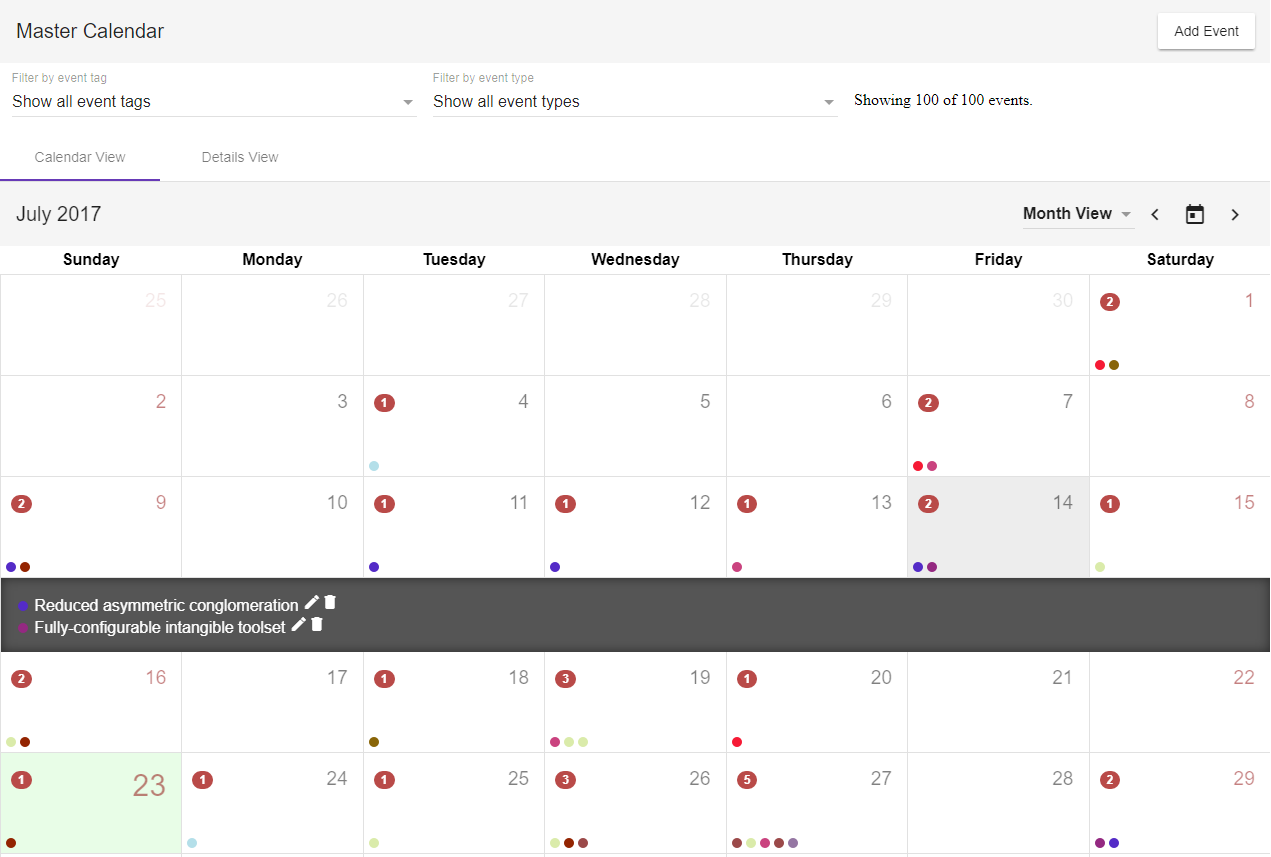
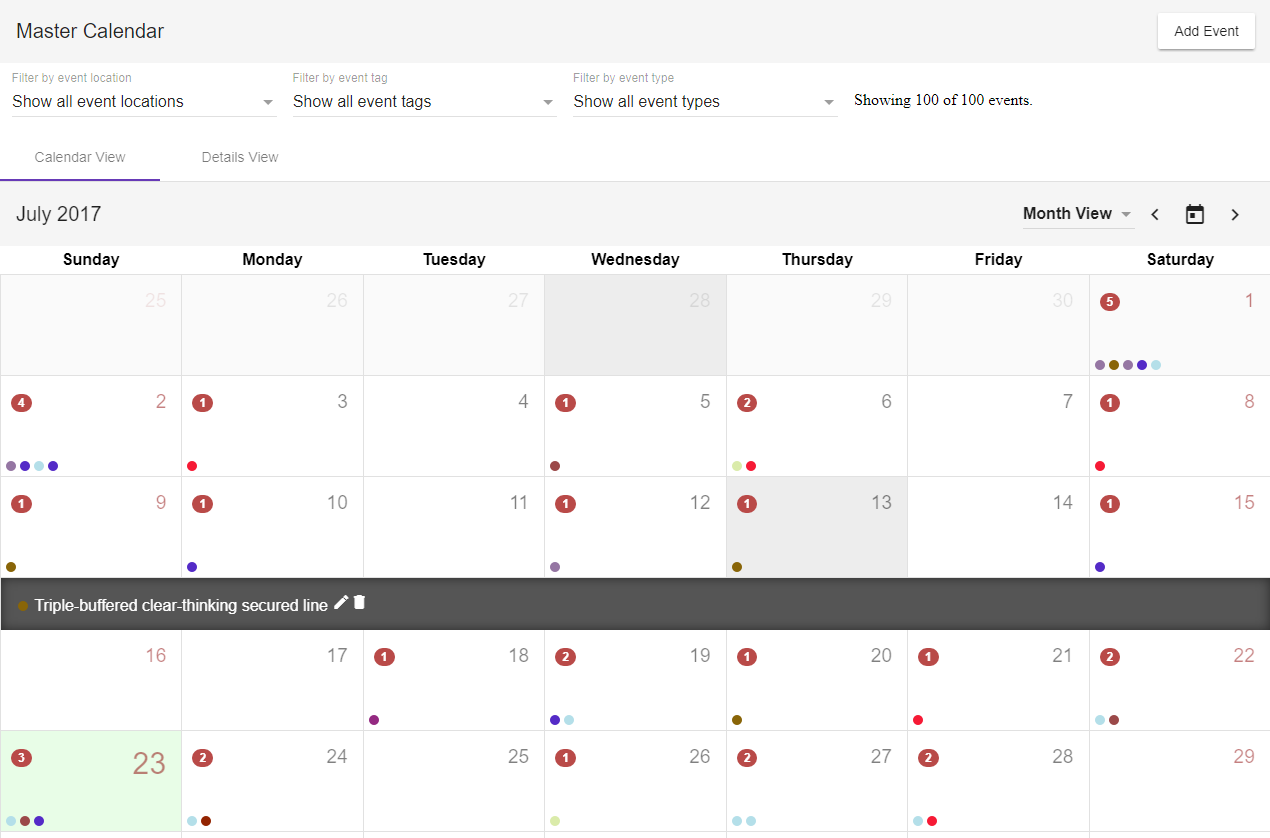
feat: add location filter, autocomplete

diff --git a/src/app/dialogs/edit-event-dialog/edit-event-dialog.component.ts b/src/app/dialogs/edit-event-dialog/edit-event-dialog.component.ts
@@ -5,14 +5,14 @@ import * as addHours from 'date-fns/add_hours';
 import { Observable } from 'rxjs/Observable';
 
 import { BaseComponent } from './../../base.component';
-import { EventMetadataService, EventType } from './../../shared/services/event-metadata.service';
+import { EventLocation, EventMetadataService, EventType } from './../../shared/services/event-metadata.service';
 import { EventsService, EventDetail } from './../../shared/services/events.service';
 
 const controls = {
   title: 'title',
   start: 'start',
   end: 'end',
-  location: 'location',
+  eventLocationAddress: 'eventLocationAddress',
   eventTypeName: 'eventTypeName',
   imageUrl: 'imageUrl',
   description: 'description'
@@ -29,6 +29,7 @@ export class EditEventDialogComponent extends BaseComponent {
   readonly form: FormGroup;
   readonly controls = controls;
   readonly eventTypes: Observable<EventType[]>;
+  readonly eventLocations: Observable<EventLocation[]>;
 
   constructor (
     private formBuilder: FormBuilder,
@@ -39,6 +40,7 @@ export class EditEventDialogComponent extends BaseComponent {
     super();
 
     this.eventTypes = this.eventMetadataService.getEventTypesAsArray().shareReplay();
+    this.eventLocations = this.eventMetadataService.getEventLocationsAsArray().shareReplay();
 
     const now = new Date();
     const start = new Date(now.getFullYear(), now.getMonth(), now.getDate(), now.getHours());
@@ -48,7 +50,7 @@ export class EditEventDialogComponent extends BaseComponent {
       [controls.title]: ['', [Validators.required]],
       [controls.start]: [null, [Validators.required]],
       [controls.end]: [null, [Validators.required]],
-      [controls.location]: ['', [Validators.required]],
+      [controls.eventLocationAddress]: ['', [Validators.required]],
       [controls.eventTypeName]: [null, [Validators.required]],
       [controls.imageUrl]: [null],
       [controls.description]: ['', [Validators.required]]
@@ -75,17 +77,18 @@ export class EditEventDialogComponent extends BaseComponent {
   }
 
   submit() {
+    const locationAddress = this.form.controls[controls.eventLocationAddress].value as string;
     const eventTypeName = this.form.controls[controls.eventTypeName].value as string;
 
-    Observable.forkJoin(this.eventTypes.first())
-      .map(([eventTypes]) => ({
+    Observable.forkJoin(this.eventTypes.first(), this.eventLocations.first())
+      .map(([eventTypes, locations]) => ({
         ...(this.originalEvent || { }),
         title: this.form.controls[controls.title].value as string,
         start: this.form.controls[controls.start].value as Date,
         end: this.form.controls[controls.end].value as Date,
-        location: this.form.controls[controls.location].value as string,
         description: this.form.controls[controls.description].value as string,
         imageUrl: this.form.controls[controls.imageUrl].value as string,
+        location: locations.find(location => location.address === locationAddress),
         type: eventTypes.find(eventType => eventType.name === eventTypeName)
       } as EventDetail))
       .switchMap(event => (this.originalEvent ? this.eventsService.updateEvent(event) : this.eventsService.addEvent(event)).mapTo(event))
@@ -102,7 +105,7 @@ export class EditEventDialogComponent extends BaseComponent {
     this.form.controls[controls.title].setValue(event.title);
     this.form.controls[controls.start].setValue(event.start);
     this.form.controls[controls.end].setValue(event.end);
-    this.form.controls[controls.location].setValue(event.location);
+    this.form.controls[controls.eventLocationAddress].setValue(event.location.address);
     this.form.controls[controls.eventTypeName].setValue(event.type.name);
     this.form.controls[controls.imageUrl].setValue(event.imageUrl);
     this.form.controls[controls.description].setValue(event.description);

diff --git a/src/app/shared/services/events.service.ts b/src/app/shared/services/events.service.ts
@@ -5,7 +5,7 @@ import { Observable } from 'rxjs/Observable';
 import { defaultSnackBarOptions, warnSnackBarOptions } from './../constants';
 import { Calendar, CalendarMetadata } from './../database';
 import { mapToArray } from './../helpers/object.helpers';
-import { EventMetadataService, EventTag, EventType } from './event-metadata.service';
+import { EventLocation, EventMetadataService, EventTag, EventType } from './event-metadata.service';
 import { StoredEventDetail } from './events.service';
 import { FirebaseService } from './firebase.service';
 
@@ -14,9 +14,9 @@ export interface EventDetail {
   title: string;
   start: Date;
   end: Date;
-  location: string;
   imageUrl: string;
   description: string;
+  location: EventLocation;
   tags?: EventTag[];
   type?: EventType;
 }
@@ -26,9 +26,9 @@ export interface StoredEventDetail {
   title: string;
   start: string;
   end: string;
-  location: string;
   imageUrl: string;
   description: string;
+  locationKey: string;
   typeKey: string;
   tagKeys: string[];
 }
@@ -83,9 +83,9 @@ export class EventsService {
       title: event.title || null,
       start: event.start ? event.start.toISOString() : null,
       end: event.end ? event.end.toISOString() : null,
-      location: event.location || null,
       imageUrl: event.imageUrl || null,
       description: event.description || null,
+      locationKey: event.location ? event.location.$key || null : null,
       typeKey: event.type ? event.type.$key || null : null,
       tagKeys: event.tags ? event.tags.map(tag => tag.$key || null) : null
     } as StoredEventDetail;
@@ -97,9 +97,9 @@ export class EventsService {
       title: event.title,
       start: new Date(event.start),
       end: new Date(event.end),
-      location: event.location,
       imageUrl: event.imageUrl,
       description: event.description,
+      location: { $key: event.locationKey, ...metadata.eventLocations[event.locationKey] },
       type: { $key: event.typeKey, ...metadata.eventTypes[event.typeKey] },
       tags: (event.tagKeys || []).map(tagKey => ({ $key: tagKey, ...metadata.eventTags[tagKey] }))
     } as EventDetail;

diff --git a/seed/generate-database.ts b/seed/generate-database.ts
@@ -3,7 +3,7 @@ import { readFileSync, writeFileSync } from 'fs';
 
 import { Database } from '../src/app/shared/database';
 import { firebaseConfig } from './../src/app/shared/firebase-config';
-import { EventTag, EventType } from './../src/app/shared/services/event-metadata.service';
+import { EventLocation, EventTag, EventType } from './../src/app/shared/services/event-metadata.service';
 import { StoredEventDetail } from './../src/app/shared/services/events.service';
 
 interface MockData {
@@ -37,6 +37,13 @@ const shortDescriptions = descriptions
   .filter(description => description.length > 0)
   .map(description => `${description}.`);
 
+const eventLocations = data
+  .slice(0, 25)
+  .map(mock => makeEventLocation(mock.location))
+  .reduce((map, value) => { map[ref.push().key] = value; return map; }, {});
+
+const eventLocationKeys = Object.keys(eventLocations);
+
 const eventTags = data
   .slice(0, 25)
   .map(mock => makeEventTag(mock.buzzword, mock.color))
@@ -58,6 +65,7 @@ const events = data
 const database: Database = {
   calendar: {
     events, metadata: {
+      eventLocations,
       eventTags,
       eventTypes
     }
@@ -68,6 +76,12 @@ writeFileSync('./seed/database.json', JSON.stringify(database, undefined, 4));
 
 ref.set(database)
   .then(() => { app.database().goOffline(); });
+
+function makeEventLocation(location: string) {
+  return {
+    address: location
+  } as EventLocation;
+}
 
 function makeEventType(type: string, color: string) {
   return {
@@ -87,10 +101,10 @@ function makeEventTag(buzzword: string, color: string) {
 function makeEvent(catchphrase: string, location: string) {
   return {
     title: catchphrase,
-    location,
     ...randomDates(),
     tagKeys: randomTagKeys(),
     imageUrl: null,
+    locationKey: eventLocationKeys[Math.floor(Math.random() * eventLocationKeys.length)],
     typeKey: eventTypeKeys[Math.floor(Math.random() * eventTypeKeys.length)],
     description: descriptions[Math.floor(Math.random() * descriptions.length)]
   } as StoredEventDetail;

diff --git a/src/app/shared/components/event-filter/event-filter.component.html b/src/app/shared/components/event-filter/event-filter.component.html
@@ -1,11 +1,17 @@
 <div bp-layout="row">
-  <div bp-layout="col 6@md" class="padding-top-24">
+  <div bp-layout="col 4@md" class="padding-top-24">
+    <md-select class="full-width" placeholder="Filter by event location" [ngModel]="filter.location" (ngModelChange)="updateLocationFilter($event)">
+      <md-option value="">Show all event locations</md-option>
+      <md-option *ngFor="let location of locations | async" [value]="location">{{ location }}</md-option>
+    </md-select>
+  </div>
+  <div bp-layout="col 4@md" class="padding-top-24">
     <md-select class="full-width" placeholder="Filter by event tag" [ngModel]="filter.tag" (ngModelChange)="updateTagFilter($event)">
       <md-option value="">Show all event tags</md-option>
       <md-option *ngFor="let tag of tags | async" [value]="tag">{{ tag }}</md-option>
     </md-select>
   </div>
-  <div bp-layout="col 6@md" class="padding-top-24">
+  <div bp-layout="col 4@md" class="padding-top-24">
     <md-select class="full-width" placeholder="Filter by event type" [ngModel]="filter.type" (ngModelChange)="updateTypeFilter($event)">
       <md-option value="">Show all event types</md-option>
       <md-option *ngFor="let type of types | async" [value]="type">{{ type }}</md-option>

diff --git a/src/app/dialogs/edit-event-dialog/edit-event-dialog.component.html b/src/app/dialogs/edit-event-dialog/edit-event-dialog.component.html
@@ -22,11 +22,16 @@
       <div bp-layout="row">
         <div bp-layout="col 6@md" class="no-padding-bottom">
           <md-input-container class="full-width">
-            <input mdInput placeholder="Location" [formControlName]="controls.location">
-            <md-error *ngIf="form.controls[controls.location].hasError('required')">
+            <input mdInput placeholder="Location" [formControlName]="controls.eventLocationAddress" [mdAutocomplete]="eventLocationAutocomplete">
+            <md-error *ngIf="form.controls[controls.eventLocationAddress].hasError('required')">
               The event location is <strong>required</strong>.
             </md-error>
           </md-input-container>
+          <md-autocomplete #eventLocationAutocomplete="mdAutocomplete">
+            <md-option *ngFor="let eventLocation of eventLocations | async" [value]="eventLocation.address">
+              <span>{{ eventLocation.address }}</span>
+            </md-option>
+          </md-autocomplete>
         </div>
         <div bp-layout="col 6@md" class="no-padding-bottom">
           <md-input-container class="full-width">

diff --git a/src/app/shared/components/event-filter/event-filter.component.ts b/src/app/shared/components/event-filter/event-filter.component.ts
@@ -14,14 +14,20 @@ export class EventFilterComponent extends BaseComponent {
   @Input() filter = showAllEventFilter;
   @Output() filterChange = new EventEmitter<EventFilter>();
 
+  readonly locations: Observable<string[]>;
   readonly tags: Observable<string[]>;
   readonly types: Observable<string[]>;
 
   constructor(private eventMetadataService: EventMetadataService) {
     super();
 
+    this.locations = this.getLocations().shareReplay(1);
     this.tags = this.getTags().shareReplay(1);
     this.types = this.getTypes().shareReplay(1);
+  }
+
+  updateLocationFilter(value: string) {
+    this.filterChange.next({ ...this.filter, location: value });
   }
 
   updateTagFilter(value: string) {
@@ -30,6 +36,11 @@ export class EventFilterComponent extends BaseComponent {
 
   updateTypeFilter(value: string) {
     this.filterChange.next({ ...this.filter, type: value });
+  }
+
+  private getLocations() {
+    return this.eventMetadataService.getEventLocationsAsArray()
+      .map(locations => locations.map(location => location.address));
   }
 
   private getTags() {

diff --git a/src/app/shared/services/event-metadata.service.ts b/src/app/shared/services/event-metadata.service.ts
@@ -4,6 +4,11 @@ import { CalendarMetadata } from './../database';
 import { mapToArray, SimpleMap } from './../helpers/object.helpers';
 import { FirebaseService } from './firebase.service';
 
+export interface EventLocation {
+  $key: string;
+  address: string;
+}
+
 export interface EventTag {
   $key: string;
   name: string;
@@ -20,6 +25,19 @@ export interface EventType {
 @Injectable()
 export class EventMetadataService {
   constructor(private firebase: FirebaseService) { }
+
+  getEventLocations() {
+    return this.firebase.object<SimpleMap<EventLocation>>('calendar/metadata/eventLocations');
+  }
+
+  getEventLocationsAsArray() {
+    return this.getEventLocations()
+      .map(eventTypes => mapToArray(eventTypes));
+  }
+
+  getEventLocation(key: string) {
+    return this.firebase.object<EventLocation>(`calendar/metadata/eventLocations/${key}`);
+  }
 
   getMetadata() {
     return this.firebase.object<CalendarMetadata>('calendar/metadata');

diff --git a/src/app/shared/helpers/event-filter.helpers.ts b/src/app/shared/helpers/event-filter.helpers.ts
@@ -1,18 +1,20 @@
 import { EventDetail } from './../services/events.service';
 
 export interface EventFilter {
+  location: string;
   tag: string;
   type: string;
 }
 
-export const showAllEventFilter: EventFilter = { tag: '', type: '' };
+export const showAllEventFilter: EventFilter = { location: '', tag: '', type: '' };
 
 export function filterEvents(events: EventDetail[], filter: EventFilter) {
   return events
     .filter(event => {
+      const locationHit = filter.location === '' || event.location.address === filter.location;
       const tagHit = filter.tag === '' || event.tags.map(tag => tag.name).includes(filter.tag);
       const typeHit = filter.type === '' || event.type.name === filter.type;
 
-      return tagHit && typeHit;
+      return locationHit && tagHit && typeHit;
     });
 }

diff --git a/src/app/dialogs/view-event-dialog/view-event-dialog.component.html b/src/app/dialogs/view-event-dialog/view-event-dialog.component.html
@@ -2,7 +2,7 @@
   <md-card-header>
     <md-card-title>{{ event.title }}</md-card-title>
     <md-card-subtitle><i class="material-icons">today</i><span class="label">{{ event.start | date:'MMM d, y h:mm a' }} until {{ event.end | date:(endFormat | async) }}</span></md-card-subtitle>
-    <md-card-subtitle><i class="material-icons">location_on</i><span class="label">{{ event.location }}</span></md-card-subtitle>
+    <md-card-subtitle><i class="material-icons">location_on</i><span class="label">{{ event.location.address }}</span></md-card-subtitle>
   </md-card-header>
   <img *ngIf="event.imageUrl" md-card-image [src]="event.imageUrl" />
   <md-card-content>

diff --git a/src/app/shared/database.ts b/src/app/shared/database.ts
@@ -1,5 +1,5 @@
 import { SimpleMap } from './helpers/object.helpers';
-import { EventTag, EventType } from './services/event-metadata.service';
+import { EventLocation, EventTag, EventType } from './services/event-metadata.service';
 import { StoredEventDetail } from './services/events.service';
 
 export interface Database {
@@ -12,6 +12,7 @@ export interface Calendar {
 }
 
 export interface CalendarMetadata {
+  eventLocations: SimpleMap<EventLocation>;
   eventTags: SimpleMap<EventTag>;
   eventTypes: SimpleMap<EventType>;
 }

diff --git a/src/app/shared/components/event-details-view/event-details-view.component.html b/src/app/shared/components/event-details-view/event-details-view.component.html
@@ -16,7 +16,7 @@
 
   <ng-container cdkColumnDef="location">
     <md-header-cell *cdkHeaderCellDef>Location</md-header-cell>
-    <md-cell *cdkCellDef="let event">{{ event.location }}</md-cell>
+    <md-cell *cdkCellDef="let event">{{ event.location ? event.location.address : 'Unknown' }}</md-cell>
   </ng-container>
 
   <ng-container cdkColumnDef="type">
